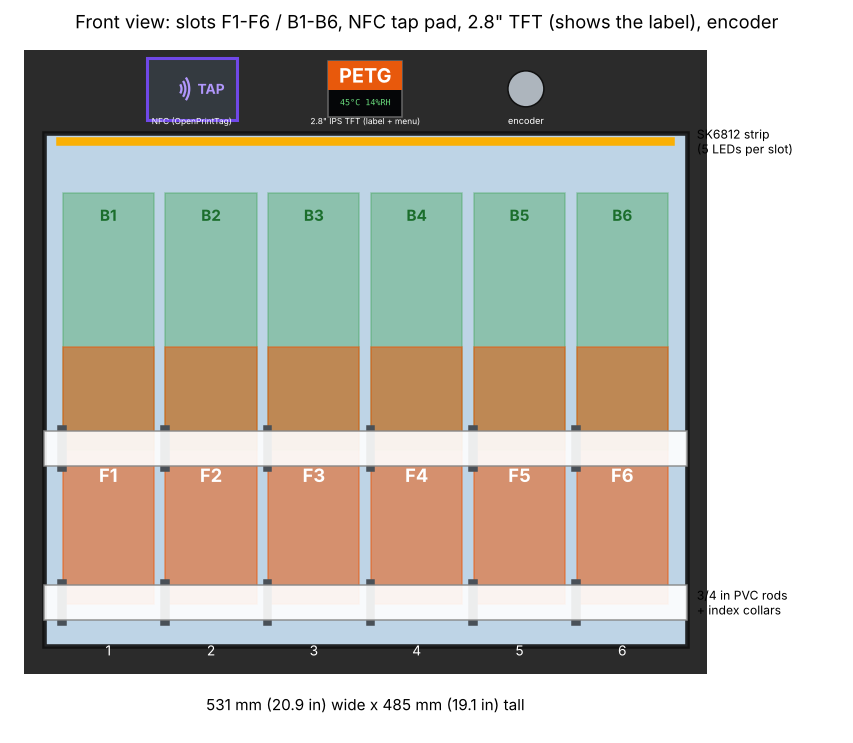
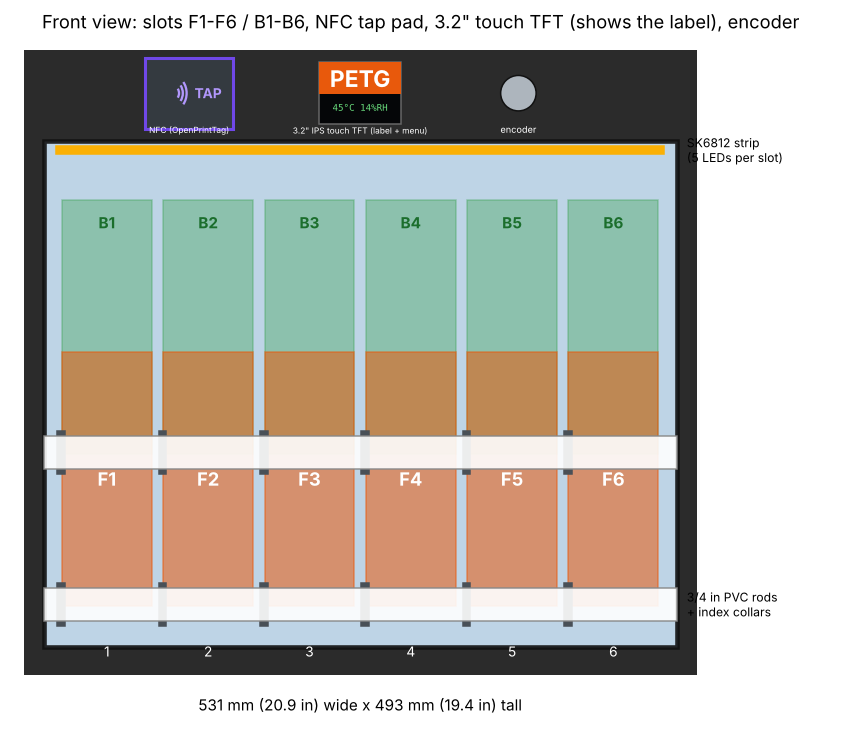
Dry cabinet v0.9: 3.2 in IPS capacitive touch TFT, header 68 mm (cabinet 494 mm tall)
Claude-Session: https://claude.ai/code/session_01Fr6xhM7DESu9XfqMuZQkwi

diff --git a/models/filament-dry-cabinet/source/draw.py b/models/filament-dry-cabinet/source/draw.py
@@ -6,7 +6,7 @@ from layout import *
 A = stadium(6, 120)
 IN=25.4
 T=WALL; ID, IH, IW = A['idepth'], A['ih'], A['iw']
-POD = 50.0; HEADER = 60.0
+POD = 50.0
 
 # ---------------- side section ----------------
 fig, ax = plt.subplots(figsize=(11, 9))
@@ -25,7 +25,7 @@ for r in [(0,-T+4,ID,T-8),(0,IH+4,ID,T-8),(ID+4,-T,T-8,IH+2*T)]:
 # door (twin-wall polycarbonate) + header
 ax.add_patch(Rectangle((-DOOR, -T), DOOR, IH+2*T-HEADER, facecolor='#9fd3f5', alpha=0.6, edgecolor='#333'))
 ax.add_patch(Rectangle((-DOOR, IH+T-HEADER), DOOR+8, HEADER, color='#222'))
-ax.text(-DOOR-6, IH+T-HEADER/2, 'header:\nNFC pad, 2.8" TFT\n(label), encoder', ha='right', va='center', fontsize=8)
+ax.text(-DOOR-6, IH+T-HEADER/2, 'header (68 mm):\nNFC pad, 3.2" TFT\n(label), encoder', ha='right', va='center', fontsize=8)
 ax.text(-DOOR-6, IH/2-40, 'door: printed frame,\n2 x polycarbonate\n+ air gap, EPDM seal', ha='right', va='center', fontsize=8)
 # rear control pod
 ax.add_patch(Rectangle((ID+T, 30), POD, 230, facecolor='#555', edgecolor='#222'))
@@ -109,13 +109,13 @@ for r in (8, 14, 20):
     ax.add_patch(matplotlib.patches.Arc((103, hy+HEADER/2), r, r*1.3, theta1=-50, theta2=50, color='#b197fc', lw=1.5))
 ax.text(130, hy+HEADER/2, 'TAP', ha='center', va='center', color='#b197fc', fontsize=9, weight='bold')
 ax.text(115, hy+1, 'NFC (OpenPrintTag)', ha='center', va='bottom', fontsize=5.5, color='white')
-# 2.8 in IPS TFT, centred: material name on a colour band + status line
+# 3.2 in IPS touch TFT, centred: material name on a colour band + status line
 cx, cz = IW/2, hy+HEADER/2
-ax.add_patch(Rectangle((cx-28.8, cz-21.6), 57.6, 43.2, facecolor='#050608', edgecolor='#666'))
-ax.add_patch(Rectangle((cx-28.8, cz-1), 57.6, 22.6, facecolor='#e8590c'))
-ax.text(cx, cz+10.5, 'PETG', ha='center', va='center', color='white', fontsize=13, weight='bold')
-ax.text(cx, cz-11, '45°C 14%RH', ha='center', va='center', color='#69db7c', fontsize=5.5, family='monospace')
-ax.text(cx, hy+1, '2.8" IPS TFT (label + menu)', ha='center', va='bottom', fontsize=5.5, color='white')
+ax.add_patch(Rectangle((cx-32.4, cz-24.3), 64.8, 48.6, facecolor='#050608', edgecolor='#666'))
+ax.add_patch(Rectangle((cx-32.4, cz-1), 64.8, 25.3, facecolor='#e8590c'))
+ax.text(cx, cz+11.5, 'PETG', ha='center', va='center', color='white', fontsize=15, weight='bold')
+ax.text(cx, cz-12, '45°C 14%RH', ha='center', va='center', color='#69db7c', fontsize=6, family='monospace')
+ax.text(cx, hy+0.5, '3.2" IPS touch TFT (label + menu)', ha='center', va='bottom', fontsize=5.5, color='white')
 ax.add_patch(Circle((375, hy+HEADER/2), 14, facecolor='#adb5bd', edgecolor='#111'))
 ax.text(375, hy+1, 'encoder', ha='center', va='bottom', fontsize=6, color='white')
 # LED strip just inside, under the header
@@ -139,6 +139,6 @@ ax.text(IW+8, A['rod_front'], '3/4 in PVC rods\n+ index collars', fontsize=8, va
 ax.text(IW+8, IH+T-HEADER-11, 'SK6812 strip\n(5 LEDs per slot)', fontsize=8, va='center')
 ax.set_xlim(-T-10, EW+90); ax.set_ylim(-T-FEET-45, A['eh']-T-FEET+10)
 ax.set_aspect('equal'); ax.axis('off')
-ax.set_title('Front view: slots F1-F6 / B1-B6, NFC tap pad, 2.8" TFT (shows the label), encoder', fontsize=12)
+ax.set_title('Front view: slots F1-F6 / B1-B6, NFC tap pad, 3.2" touch TFT (shows the label), encoder', fontsize=12)
 plt.savefig('layout_front.png', dpi=110, bbox_inches='tight')
 print('ok')

diff --git a/models/filament-dry-cabinet/source/render/scene.py b/models/filament-dry-cabinet/source/render/scene.py
@@ -2,12 +2,12 @@
 with a small perspective z-buffer renderer (opaque pass + tinted glass pass)."""
 import sys, math, numpy as np, trimesh
 import os; sys.path.insert(0, os.path.join(os.path.dirname(os.path.abspath(__file__)), '..'))  # source/layout.py
-from layout import stadium, ROD_OD, ROD_CC, PITCH, WALL, DOOR, FEET
+from layout import stadium, ROD_OD, ROD_CC, PITCH, WALL, DOOR, FEET, HEADER
 from PIL import Image, ImageDraw, ImageFont, ImageFilter
 
 A = stadium(6, 120)
 IW, ID, IH = A['iw'], A['idepth'], A['ih']
-T = WALL; HEADER = 60.0
+T = WALL
 MAT_COL = {'PLA': '#2f9e44', 'PETG': '#e8590c', 'ABS': '#c92a2a', 'ASA': '#c92a2a', 'TPU': '#1971c2', 'Nylon': '#6741d9'}
 X0, X1 = -T, IW + T                 # exterior x
 YF, YB = -DOOR, ID + T              # exterior y (front of door .. back)
@@ -103,13 +103,13 @@ def cabinet(ox=0, oz=0, material='PETG', spool_cols=SPOOL_COLS, ports_open=(2, 9
     add(box(X0+95, X0+165, YF-1.6, YF-1, ZT-HEADER+6, ZT-6), hexc('#7048e8'))
     add(box(X0+98, X0+162, YF-2.2, YF-1.2, ZT-HEADER+9, ZT-9), hexc('#25262b'))
     labels.append(((X0+130+ox, YF-2.3, ZT-HEADER/2+oz), 'NFC', 'nfc'))
-    # 2.8 in IPS TFT (57.6 x 43.2 active), centred: the material name is shown on it
+    # 3.2 in IPS touch TFT (64.8 x 48.6 active), centred: the material name is shown on it
     cx = (X0+X1)/2; zc = ZT-HEADER/2
-    add(box(cx-33, cx+33, YF-1.8, YF-1, zc-26, zc+26), hexc('#111214'))             # bezel
-    add(box(cx-28.8, cx+28.8, YF-2.4, YF-1.6, zc-21.6, zc+21.6), hexc('#050608'))   # panel
-    add(box(cx-28.8, cx+28.8, YF-2.6, YF-2.2, zc-1, zc+21.6), hexc(MAT_COL.get(material, '#868e96')))
-    labels.append(((cx+ox, YF-2.8, zc+10.5+oz), material, 'tftname'))
-    labels.append(((cx+ox, YF-2.8, zc-11+oz), '45°C  14%RH\nMaintain', 'tftinfo'))
+    add(box(cx-37, cx+37, YF-1.8, YF-1, zc-29, zc+29), hexc('#111214'))             # bezel
+    add(box(cx-32.4, cx+32.4, YF-2.4, YF-1.6, zc-24.3, zc+24.3), hexc('#050608'))   # panel
+    add(box(cx-32.4, cx+32.4, YF-2.6, YF-2.2, zc-1, zc+24.3), hexc(MAT_COL.get(material, '#868e96')))
+    labels.append(((cx+ox, YF-2.8, zc+11.8+oz), material, 'tftname'))
+    labels.append(((cx+ox, YF-2.8, zc-12+oz), '45°C  14%RH\nMaintain', 'tftinfo'))
     # encoder knob
     add(cyl_y(X0+395, YF-16, YF-1, ZT-HEADER/2, 13), hexc('#9aa0a6'))
     add(cyl_y(X0+395, YF-17, YF-16, ZT-HEADER/2, 11), hexc('#b8bdc2'))
@@ -225,9 +225,9 @@ def render(items, glass, labels, out, eye, target, fov=32, W=1500, H=1150, ss=2,
         if not (0 <= xi < Wr and 0 <= yi < Hr) or z > zb[yi, xi] + 6: continue   # occluded
         scale = f/z
         if kind == 'tftname':
-            fnt = ImageFont.truetype(F_B, int(17*scale)); dr.text((x, y), txt, font=fnt, fill=(255, 255, 255), anchor='mm')
+            fnt = ImageFont.truetype(F_B, int(19*scale)); dr.text((x, y), txt, font=fnt, fill=(255, 255, 255), anchor='mm')
         elif kind == 'tftinfo':
-            fnt = ImageFont.truetype(F_M, int(6.5*scale))
+            fnt = ImageFont.truetype(F_M, int(7*scale))
             dr.multiline_text((x, y), txt, font=fnt, fill=(105, 219, 124), anchor='mm', align='center', spacing=2)
         elif kind == 'nfc':
             fnt = ImageFont.truetype(F_B, int(11*scale)); dr.text((x, y), '((·)) ' + txt, font=fnt, fill=(177, 151, 252), anchor='mm')

diff --git a/models/filament-dry-cabinet/source/layout.py b/models/filament-dry-cabinet/source/layout.py
@@ -16,6 +16,7 @@ WALL = 15.7                             # 2.4 skin + 1/2 in XPS + 0.6 (cad/param
 DOOR = 28.0                             # door frame with twin-wall polycarbonate
 FEET = 10.0                             # stacking feet (nest into the cabinet below)
 CLR = 15.0                              # clearance spool <-> wall/door
+HEADER = 68.0                           # front header (3.2 in TFT); 60 + 8 mm, added to the top clearance
 
 def stadium(n_across, h_offset, lift_access=True):
     """Two rows (front low, back raised by h_offset)."""
@@ -28,7 +29,7 @@ def stadium(n_across, h_offset, lift_access=True):
     top_back = cb + R
     top_front = cf + R
     lift = max(0.0, (top_front + 5) - (cb - R)) if lift_access else 0.0
-    ih = top_back + lift + 10
+    ih = top_back + lift + 10 + (HEADER - 60.0)
     ew, ed, eh = iw + 2*WALL, idepth + WALL + DOOR, ih + 2*WALL + FEET
     return dict(n=2*n_across, iw=iw, idepth=idepth, ih=ih, ew=ew, ed=ed, eh=eh,
                 d=d, cf=cf, cb=cb, rod_front=rod_z_front, rod_back=rod_z_front+h_offset,

diff --git a/models/filament-dry-cabinet/source/wiring.py b/models/filament-dry-cabinet/source/wiring.py
@@ -38,7 +38,7 @@ box(102, 47, 24, 12, 'Door reed switch', 'light on when open\nheater/fan pause',
 wire((39, 50), (44, 50), SIG); wire((44, 50), (44, 44.5), SIG); wire((44, 44.5), (114, 44.5), SIG, 'I2C / ADC / GPIO (3.3 V)')
 for x in (61, 87, 114): wire((x, 44.5), (x, 46.6), SIG)
 # UI and LEDs
-box(50, 24, 24, 15, 'Front header UI', '2.8" IPS SPI TFT (label + menu)\nbacklight PWM, EC11 encoder\ngraphical_display_menu', fc='#e7f5ff', ec=SIG)
+box(50, 24, 24, 15, 'Front header UI', '3.2" IPS SPI TFT + FT6336U touch\n(label + menu), backlight PWM, EC11\ngraphical_display_menu', fc='#e7f5ff', ec=SIG)
 wire((29, 47), (29, 31), SIG); wire((29, 31), (50, 31), SIG, 'SPI + encoder')
 box(80, 24, 24, 15, 'SK6812 RGBW 5 V', '60 LED/m, ~30 LEDs\n74AHCT125 level shift\n330 R + 1000 uF', fc='#ebfbee', ec=V5)
 wire((35, 47), (35, 21.5), SIG); wire((35, 21.5), (86, 21.5), SIG, 'LED data (RMT)'); wire((86, 21.5), (86, 23.6), SIG)

diff --git a/models/filament-dry-cabinet/DESIGN.md b/models/filament-dry-cabinet/DESIGN.md
@@ -1,4 +1,4 @@
-# Filament Dry Cabinet: Design Spec (v0.8.1)
+# Filament Dry Cabinet: Design Spec (v0.9)
 
 This spec is for review before any CAD. v0.2 includes your answers to the open questions (§10). It sets the layout, construction, electronics, ESPHome control and the Spoolman slot scheme for **one cabinet**. You'll build **one cabinet per material family**: PLA, PETG, ABS/ASA, and so on.
 
@@ -9,10 +9,10 @@ This spec is for review before any CAD. v0.2 includes your answers to the open q
 | R1 | Filament storage that also dehumidifies | Sealed, insulated chamber with a **low-voltage PTC heater**, a circulation fan and **pull-out silica gel cartridges** (§5) |
 | R2 | Modular, looks like the concept picture | **Printed tile panels** (each ≤ 330 mm, to fit the 350 mm bed) bolted together, a dark frame and a full-width glass door (§4) |
 | R3 | PVC or other hardware-store parts as spool shelves | Spools roll on **3/4 in Sch 40 PVC pipe** (26.7 mm OD) set in printed cradles (§4.3) |
-| R4 | ESPHome (ESP32) with local controls and status | ESP32-S3, a **2.8 in IPS TFT and rotary encoder** for setpoints, plus the HA API and a local web page (§6, §7) |
+| R4 | ESPHome (ESP32) with local controls and status | ESP32-S3, a **3.2 in IPS touch TFT and rotary encoder** for setpoints, plus the HA API and a local web page (§6, §7) |
 | R5 | SK6812 LED lighting | **SK6812 RGBW** strip under the front header, 5 LEDs per slot, so it can **light up a single slot** (§6.4) |
-| R6 | Front label, and an index position for each spool that Spoolman can manage | **The material label is shown on the 2.8 in TFT** (v0.8, replaces the printed plate), set from the menu or HA, plus a small printed backup tag on the door rail. **Slot IDs F1–F6 and B1–B6** on the door rail (§8). |
-| R7 | **≤ 20 in (508 mm) deep** for standard shelves, **≤ 20 in shelf spacing** | **442 mm (17.4 in)** cabinet, **492 mm (19.4 in)** with the rear control pod, using offset-height rows. **485 mm (19.1 in) tall.** (§3) |
+| R6 | Front label, and an index position for each spool that Spoolman can manage | **The material label is shown on the 3.2 in TFT** (v0.8, replaces the printed plate), set from the menu or HA, plus a small printed backup tag on the door rail. **Slot IDs F1–F6 and B1–B6** on the door rail (§8). |
+| R7 | **≤ 20 in (508 mm) deep** for standard shelves, **≤ 20 in shelf spacing** | **442 mm (17.4 in)** cabinet, **492 mm (19.4 in)** with the rear control pod, using offset-height rows. **494 mm (19.4 in) tall** with the 68 mm header. (§3) |
 | R8 | IEC 320 C14 fused inlet | **Fused and switched C14 module** in the rear control pod (§6.1) |
 | R9 | About 12 spools | **12 × 1 kg spools** (200 mm across, up to 75 mm wide) |
 | R10 | PTFE feed ports that can be closed off, on the **top and back** | **12 top ports** (one per slot) and **12 back ports**, all using one plug-in **port module**: PTFE or sealed blank (§4.6) |
@@ -40,7 +40,7 @@ Renders are drawn from the spec dimensions (§3). The original inspiration image
 
 **The back row is raised 120 mm.** This lets the two rows overlap in depth (centres 169 mm apart instead of 207 mm). The back spools show above the front ones, so you can read them through the door. It also leaves a **service void under the back row, about 184 × 142 × 500 mm**, which holds the heater, fan duct and desiccant cartridges without adding any height. In v0.2 the front rods sit 30 mm above the floor, so the void is 137 mm tall.
 
-**There's 85 mm of lift room above the back row**, so you can lift a back spool up and over the front spool to take it out. **Kept in v0.2**, since your shelves allow 20 in. Without it, the cabinet would be 409 mm / 16.1 in tall.
+**There's 85 mm of lift room above the back row**, so you can lift a back spool up and over the front spool to take it out. **Kept in v0.2**, since your shelves allow 20 in. Without it, the cabinet would be 408 mm / 16.1 in tall.
 
 ### Overall size (layout A)
 
@@ -49,9 +49,9 @@ Renders are drawn from the spec dimensions (§3). The original inspiration image
 | Width | 531 | 20.9 |
 | Depth (cabinet) | 442 | 17.4 |
 | Depth with the rear control pod | 492 | **19.4 (< 20)** |
-| Height (with 10 mm stacking feet) | **485** | **19.1** |
-| Height per cabinet when stacked (feet nest into the pockets) | 475 | 18.7 |
-| Interior (W × D × H) | 500 × 399 × 444 | 19.7 × 15.7 × 17.5 |
+| Height (with 10 mm stacking feet) | **494** | **19.4** |
+| Height per cabinet when stacked (feet nest into the pockets) | 484 | 19.1 |
+| Interior (W × D × H) | 500 × 399 × 452 | 19.7 × 15.7 × 17.8 |
 
 ### Layout options considered (all 12 spools)
 
@@ -84,15 +84,15 @@ Renders are drawn from the spec dimensions (§3). The original inspiration image
 - **Index collars:** printed 46 mm rings, 5 mm wide, every **80 mm** (75 mm spool plus 5 mm gap). They **slide on from the rod end** (the rods lift out) and **three spring tabs grip the PVC**, so they can be moved. A split ring that clips on sideways would be too stiff at this size (v0.7). They keep spools in their slots. Slot numbers are on the door rail, since the rods turn.
 
 ### 4.4 Front header and on-screen label
-- A 60 mm header above the door holds, from left to right:
+- A **68 mm header** above the door (v0.9; was 60 mm, grown for the 3.2 in screen) holds, from left to right:
   - the **NFC tap pad**, a recessed area with a printed tap icon over the PN5180 antenna
-  - the **2.8 in IPS TFT** (320 × 240, about 57.6 × 43.2 mm active, module about 86 × 50 mm), centred. **It is the cabinet's label** (v0.8): the material name in large letters on a colour band, with temperature, humidity and mode below. See §7 for the screen behaviour.
+  - the **3.2 in IPS TFT with capacitive touch** (320 × 240, about 64.8 × 48.6 mm active, module about 89–93 × 55–56 mm), centred. **It is the cabinet's label** (v0.8): the material name in large letters (about 15 mm tall) on a colour band, with temperature, humidity and mode below. See §7 for the screen behaviour.
   - the **encoder knob**
 - **The printed label plate is gone** (v0.8). The name is a setting, so changing what a cabinet holds needs no reprint.
 - **Backup tag:** a small printed tag (about 40 × 12 mm) clips into a slot at the left end of the door's bottom rail, so the cabinet is still identified when it's unplugged.
-- **Touch-ready (v0.8.1):** the BOM uses the **touchscreen version** of the 2.8 in module, so touch can be added in firmware later without changing hardware. The **encoder stays** as the main control. The bezel window must leave the whole touch surface open (no clear cover in front of the panel), with the panel front at most about 1.5 mm behind the bezel face so a finger reaches the edges.
-- **Display mount:** the panel sits behind a printed bezel with a 58.6 × 44.2 mm window, held by its four PCB holes on printed standoffs. Measure the exact module before the header CAD, since 2.8 in boards vary by a few mm.
-- **The tap pad has no metal over it**, and the plastic covering the antenna is no more than 2–3 mm thick. If the PN5180 module you buy doesn't fit behind a 60 mm header, the header grows by up to 10 mm. The cabinet would then be 504 mm (19.8 in) tall, still under 20 in.
+- **Touch-ready (v0.8.1):** the BOM uses the **capacitive touchscreen version** of the 3.2 in module (v0.9: FT6336U boards are mostly 3.2 in), so touch can be added in firmware later without changing hardware. The **encoder stays** as the main control. The bezel window must leave the whole touch surface open (no clear cover in front of the panel), with the panel front at most about 1.5 mm behind the bezel face so a finger reaches the edges.
+- **Display mount:** the panel sits behind a printed bezel with a 65.8 × 49.6 mm window, held by its four PCB holes on printed standoffs. The 68 mm header leaves about 6 mm above and below a 56 mm board for the frame walls and standoffs. Measure the exact module before the header CAD: boards vary by a few mm, and some have a touch flex cable or SD slot that sticks out past the edge.
+- **The tap pad has no metal over it**, and the plastic covering the antenna is no more than 2–3 mm thick. The 68 mm header also gives the PN5180 more room. If a module still doesn't fit, the header can grow by 2 more mm (70 mm, cabinet 496 mm / 19.5 in).
 - The **slot numbers 1–6** are also moulded into the door's bottom rail, lined up with the columns.
 
 ### 4.5 Rear control pod (outside the chamber)
@@ -172,7 +172,7 @@ There's also a **"Dry" mode** that runs a timed cycle at the cabinet's maximum t
 | Heater | logic-level N-MOSFET, low side | GPIO, `slow_pwm` (about 5 s period) |
 | Fan | 4-pin PWM | LEDC at 25 kHz, tach to `pulse_counter` |
 | LEDs | SK6812 RGBW, about 30 LEDs | `esp32_rmt_led_strip`, via a **74AHCT125** level shifter, 330 Ω series resistor and 1000 µF at the strip |
-| Display | **2.8 in IPS SPI TFT, 320 × 240, with capacitive touch** (ST7789 or ILI9341 IPS panel + FT6336U touch controller) | SPI (shared with the PN5180, own CS) + **backlight on an LEDC PWM pin** via a small transistor |
+| Display | **3.2 in IPS SPI TFT, 320 × 240, with capacitive touch** (ST7789 or ILI9341 IPS panel + FT6336U touch controller) | SPI (shared with the PN5180, own CS) + **backlight on an LEDC PWM pin** via a small transistor |
 | Touch (wired now, firmware later) | FT6336U capacitive, on the **I2C bus** (shared with the sensors) + **INT and RST pins reserved**. A resistive XPT2046 board also works: it goes on SPI with its own CS + IRQ pin. | ESPHome `ft63x6` (or `xpt2046`) touchscreen, enabled in a later phase |
 | Local control | EC11 rotary encoder with push switch | `rotary_encoder` + GPIO |
 | Door | reed switch + magnet | GPIO (`binary_sensor`) |
@@ -245,8 +245,8 @@ There's also a **"Dry" mode** that runs a timed cycle at the cabinet's maximum t
 
 **PID tuning:** every cabinet uses the same heater, but cabinets differ in where they stand, their ambient temperature and how many spools they hold. Run **autotune once per cabinet** with it loaded and the door closed. Start it from the **encoder menu (Tuning → PID autotune → Start)**. It asks you to confirm, so a stray knob press can't start it. The screen then shows the progress. ESPHome's `pid` climate drives the heater in a relay cycle around the setpoint, and the suggested kp, ki and kd are shown on the TFT and written to the log. Put those into the YAML substitutions, or into the restored `number` entities if you'd rather tune it live. The firmware interlocks (§6.3) stay active during autotune.
 
-**Local UI (2.8 in TFT):**
-- **Label page (default, always on):** the **cabinet name** in large letters (about 13 mm tall, readable across the room) on the label colour band, then a status line with temperature, RH and mode, plus fault and desiccant icons. The backlight sits at **idle brightness** (default 30 %).
+**Local UI (3.2 in TFT):**
+- **Label page (default, always on):** the **cabinet name** in large letters (about 15 mm tall, readable across the room) on the label colour band, then a status line with temperature, RH and mode, plus fault and desiccant icons. The backlight sits at **idle brightness** (default 30 %).
 - **Wake:** opening the door, turning the knob or tapping a tag brings the backlight to 100 %. It drops back to idle 60 s after the last activity.
 - **Detail page:** one knob click from the label page shows T, RH, absolute humidity, dew point, heater %, fan RPM and days since the desiccant recharge.
 - **NFC tap:** shows the tag's brand, material, colour and weight, then the slot ("Put in B4") while that slot's LEDs light.
@@ -311,7 +311,7 @@ The slot map on the cabinet is rebuilt from Spoolman's Location fields at startu
 - Logic-level MOSFET module (heater)
 - 24 V 4-pin PWM fan (60–80 mm)
 - SK6812 RGBW 5 V strip (60/m, 0.5 m), 74AHCT125, 330 Ω, 1000 µF
-- 2.8 in IPS SPI TFT, 320 × 240, **capacitive touch version** (FT6336U); small NPN/N-MOSFET for backlight PWM
+- 3.2 in IPS SPI TFT, 320 × 240, **capacitive touch version** (FT6336U), about 93 × 56 mm max board; small NPN/N-MOSFET for backlight PWM
 - EC11 encoder, reed switch + magnet
 - **PN5180 NFC module** (ISO 15693 + 14443A, SPI). Check the board size against the header (§4.4).
 - **Blank ICODE SLIX2 tags** for spools that don't ship with OpenPrintTag
@@ -328,7 +328,7 @@ The slot map on the cabinet is rebuilt from Spoolman's Location fields at startu
 | Shelf height | 20 in shelves. **Keep the lift room**, and the cabinet is **19.5 in tall** after trimming the feet, cradles and top clearance. |
 | PTFE ports | **Yes, top and back, closable:** one port module design with PTFE, blank and cap versions (§4.6) |
 | Stacking | **Yes:** nesting feet and pockets, plus optional side links (§4.7) |
-| UI | **2.8 in IPS TFT + encoder** (v0.8). The screen is also the label; no printed plate. **Touchscreen module in the BOM, touch firmware later; the encoder stays** (v0.8.1). |
+| UI | **3.2 in IPS touch TFT + encoder** (v0.9; 2.8 in in v0.8), in a 68 mm header. The screen is also the label; no printed plate. **Touchscreen module in the BOM, touch firmware later; the encoder stays** (v0.8.1). |
 | Mains | **120 V only** |
 | Shell material | **ABS or ASA** for all printed parts |
 | Heater | **150 W in every cabinet**, with the same PSU and parts. **PID with autotune** adjusts it for each cabinet. |
@@ -337,14 +337,14 @@ The slot map on the cabinet is rebuilt from Spoolman's Location fields at startu
 Still open (not blocking CAD):
 - **Which material cabinet to build first?** This now only changes firmware settings (cabinet name and material preset) and the backup tag.
 - **Port socket thread:** this will be confirmed with a fit-test print.
-- **PN5180 module size:** this decides whether the header stays at 60 mm or grows to 70 mm.
+- **PN5180 module size:** the header is now 68 mm; it only grows to 70 mm if the module needs it.
 
 ## 11. Plan
 
 | Phase | Deliverable |
 |---|---|
 | **1 (this)** | Design spec, layout, electrical plan, BOM |
-| 2 | CAD: tiles, corner posts, front frame, door, hinges, rod cradles and risers, index collars, backup tag, header with the 2.8 in display bezel, heater duct, desiccant cartridges, rear pod, **port sockets and modules with a fit-test coupon**, **stacking feet, pockets and links**. STEP and STL. |
+| 2 | CAD: tiles, corner posts, front frame, door, hinges, rod cradles and risers, index collars, backup tag, header with the 3.2 in display bezel, heater duct, desiccant cartridges, rear pod, **port sockets and modules with a fit-test coupon**, **stacking feet, pockets and links**. STEP and STL. |
 | 3 | ESPHome YAML, pin map and wiring diagram |
 | 3b | **ESPHome PN5180 external component**: ISO 15693 inventory and read, plus OpenPrintTag payload. Tested on a bench board before it goes in the cabinet. |
 | 4 | Prototype: one cabinet. Test the fit, the heat-up and holding RH. |

diff --git a/models/filament-dry-cabinet/README.md b/models/filament-dry-cabinet/README.md
@@ -12,7 +12,7 @@ summary: Modular, stackable, heated and desiccant-dried 12-spool cabinet (one pe
 
 ![Concept render](images/render_front.jpg)
 
-A modular cabinet that stores **12 × 1 kg spools** and keeps them dry. A low-voltage **PTC heater** circulates warm air through **pull-out silica gel cartridges**. An **ESP32 running ESPHome** controls it, with a local display and knob for setpoints, and integrates with Home Assistant. **SK6812** lighting can highlight individual slots. Each spool position has an ID (`PETG-F3`, for example) for Spoolman's Location field. You'll build **one cabinet per material**. It plugs in through an **IEC C14 fused inlet** (120 V). At **19.4 in deep and 19.1 in tall**, it fits standard 20 in shelves. Cabinets **stack**, and **closable PTFE ports** on the top and back can feed a printer straight from any slot.
+A modular cabinet that stores **12 × 1 kg spools** and keeps them dry. A low-voltage **PTC heater** circulates warm air through **pull-out silica gel cartridges**. An **ESP32 running ESPHome** controls it, with a local display and knob for setpoints, and integrates with Home Assistant. **SK6812** lighting can highlight individual slots. Each spool position has an ID (`PETG-F3`, for example) for Spoolman's Location field. You'll build **one cabinet per material**. It plugs in through an **IEC C14 fused inlet** (120 V). At **19.4 in deep and 19.4 in tall**, it fits standard 20 in shelves. Cabinets **stack**, and **closable PTFE ports** on the top and back can feed a printer straight from any slot.
 
 **Status: CAD phase 1. Fit-test coupons are ready to print** (DESIGN.md §12). See **[DESIGN.md](DESIGN.md)** for the full spec.
 
@@ -31,13 +31,13 @@ A modular cabinet that stores **12 × 1 kg spools** and keeps them dry. A low-vo
 | | |
 |---|---|
 | Capacity | 12 spools: two rows of 6, with the back row raised 120 mm |
-| Size | 531 W × 442 D (492 with rear control pod) × 485 H mm (20.9 × 17.4 / 19.4 × 19.1 in) |
+| Size | 531 W × 442 D (492 with rear control pod) × 494 H mm (20.9 × 17.4 / 19.4 × 19.4 in) |
 | Shelves | 3/4 in Sch 40 PVC rods in printed cradles, with printed index collars every 80 mm |
 | Shell | Printed ABS/ASA tile panels (≤ 330 mm) with 1/2 in XPS foam, and a twin-pane polycarbonate door |
 | PTFE ports | 12 on top (one per slot) + 12 on the back. Each one takes a PTFE pass-through module (PC4-M10) or a sealed blank plug. |
 | Stacking | Feet nest into pockets in the cabinet below, with optional side links. Stacks of 2–3. |
 | Drying | 24 V PTC heater, 150 W in every cabinet with PID (autotune), + PWM fan + about 700 g of silica gel |
-| Control | ESP32-S3, SHT45/SHT40, 2.8 in IPS touchscreen TFT (shows the label; touch firmware later) + encoder, ESPHome |
+| Control | ESP32-S3, SHT45/SHT40, 3.2 in IPS capacitive touchscreen TFT (shows the label; touch firmware later) + encoder, ESPHome |
 | NFC | **PN5180 tap pad** in the header for **OpenPrintTag** (ISO 15693) and NTAG tags. Tap a spool and pick a slot, and Spoolman's Location updates. |
 | Power | 120 V IEC C14 fused and switched inlet → Mean Well 24 V PSU in a rear pod outside the chamber |
 | Safety | Hardware thermal cutouts (85 °C auto-reset + 102 °C fuse) and firmware interlocks |
@@ -56,6 +56,7 @@ A modular cabinet that stores **12 × 1 kg spools** and keeps them dry. A low-vo
 
 ## Revision History
 
+- **v0.9** (2026-11-22): display changed to a **3.2 in IPS capacitive touch TFT** (FT6336U boards are mostly 3.2 in). The header grows from 60 to 68 mm to fit it, so the cabinet is 494 mm (19.4 in) tall, 484 mm per cabinet when stacked. Figures and renders updated.
 - **v0.8.1** (2026-11-22): the BOM uses the **capacitive touchscreen** version of the 2.8 in display (FT6336U on I2C, INT/RST pins reserved) so touch can be added in firmware later. The rotary encoder stays.
 - **v0.8** (2026-11-22): the printed label plate is replaced by a **2.8 in IPS TFT that shows the material name** on a colour band, with status below. Added cabinet name, label colour and idle brightness settings, the screen behaviour, a backup tag on the door rail, and updated the header layout, figures and renders.
 - **v0.7** (2026-11-22): CAD phase 1, fit-test coupons for the port thread and O-ring, PC4-M10 hole, rod cradle, index collar, tile joint, inserts and foam pocket. Walls are now 15.7 mm (2.4 mm skin + 1/2 in foam), so the outside is 531 × 442 (492) × 485 mm. The O-ring is now 22 × 2 mm. Index collars now slide on from the rod end.
